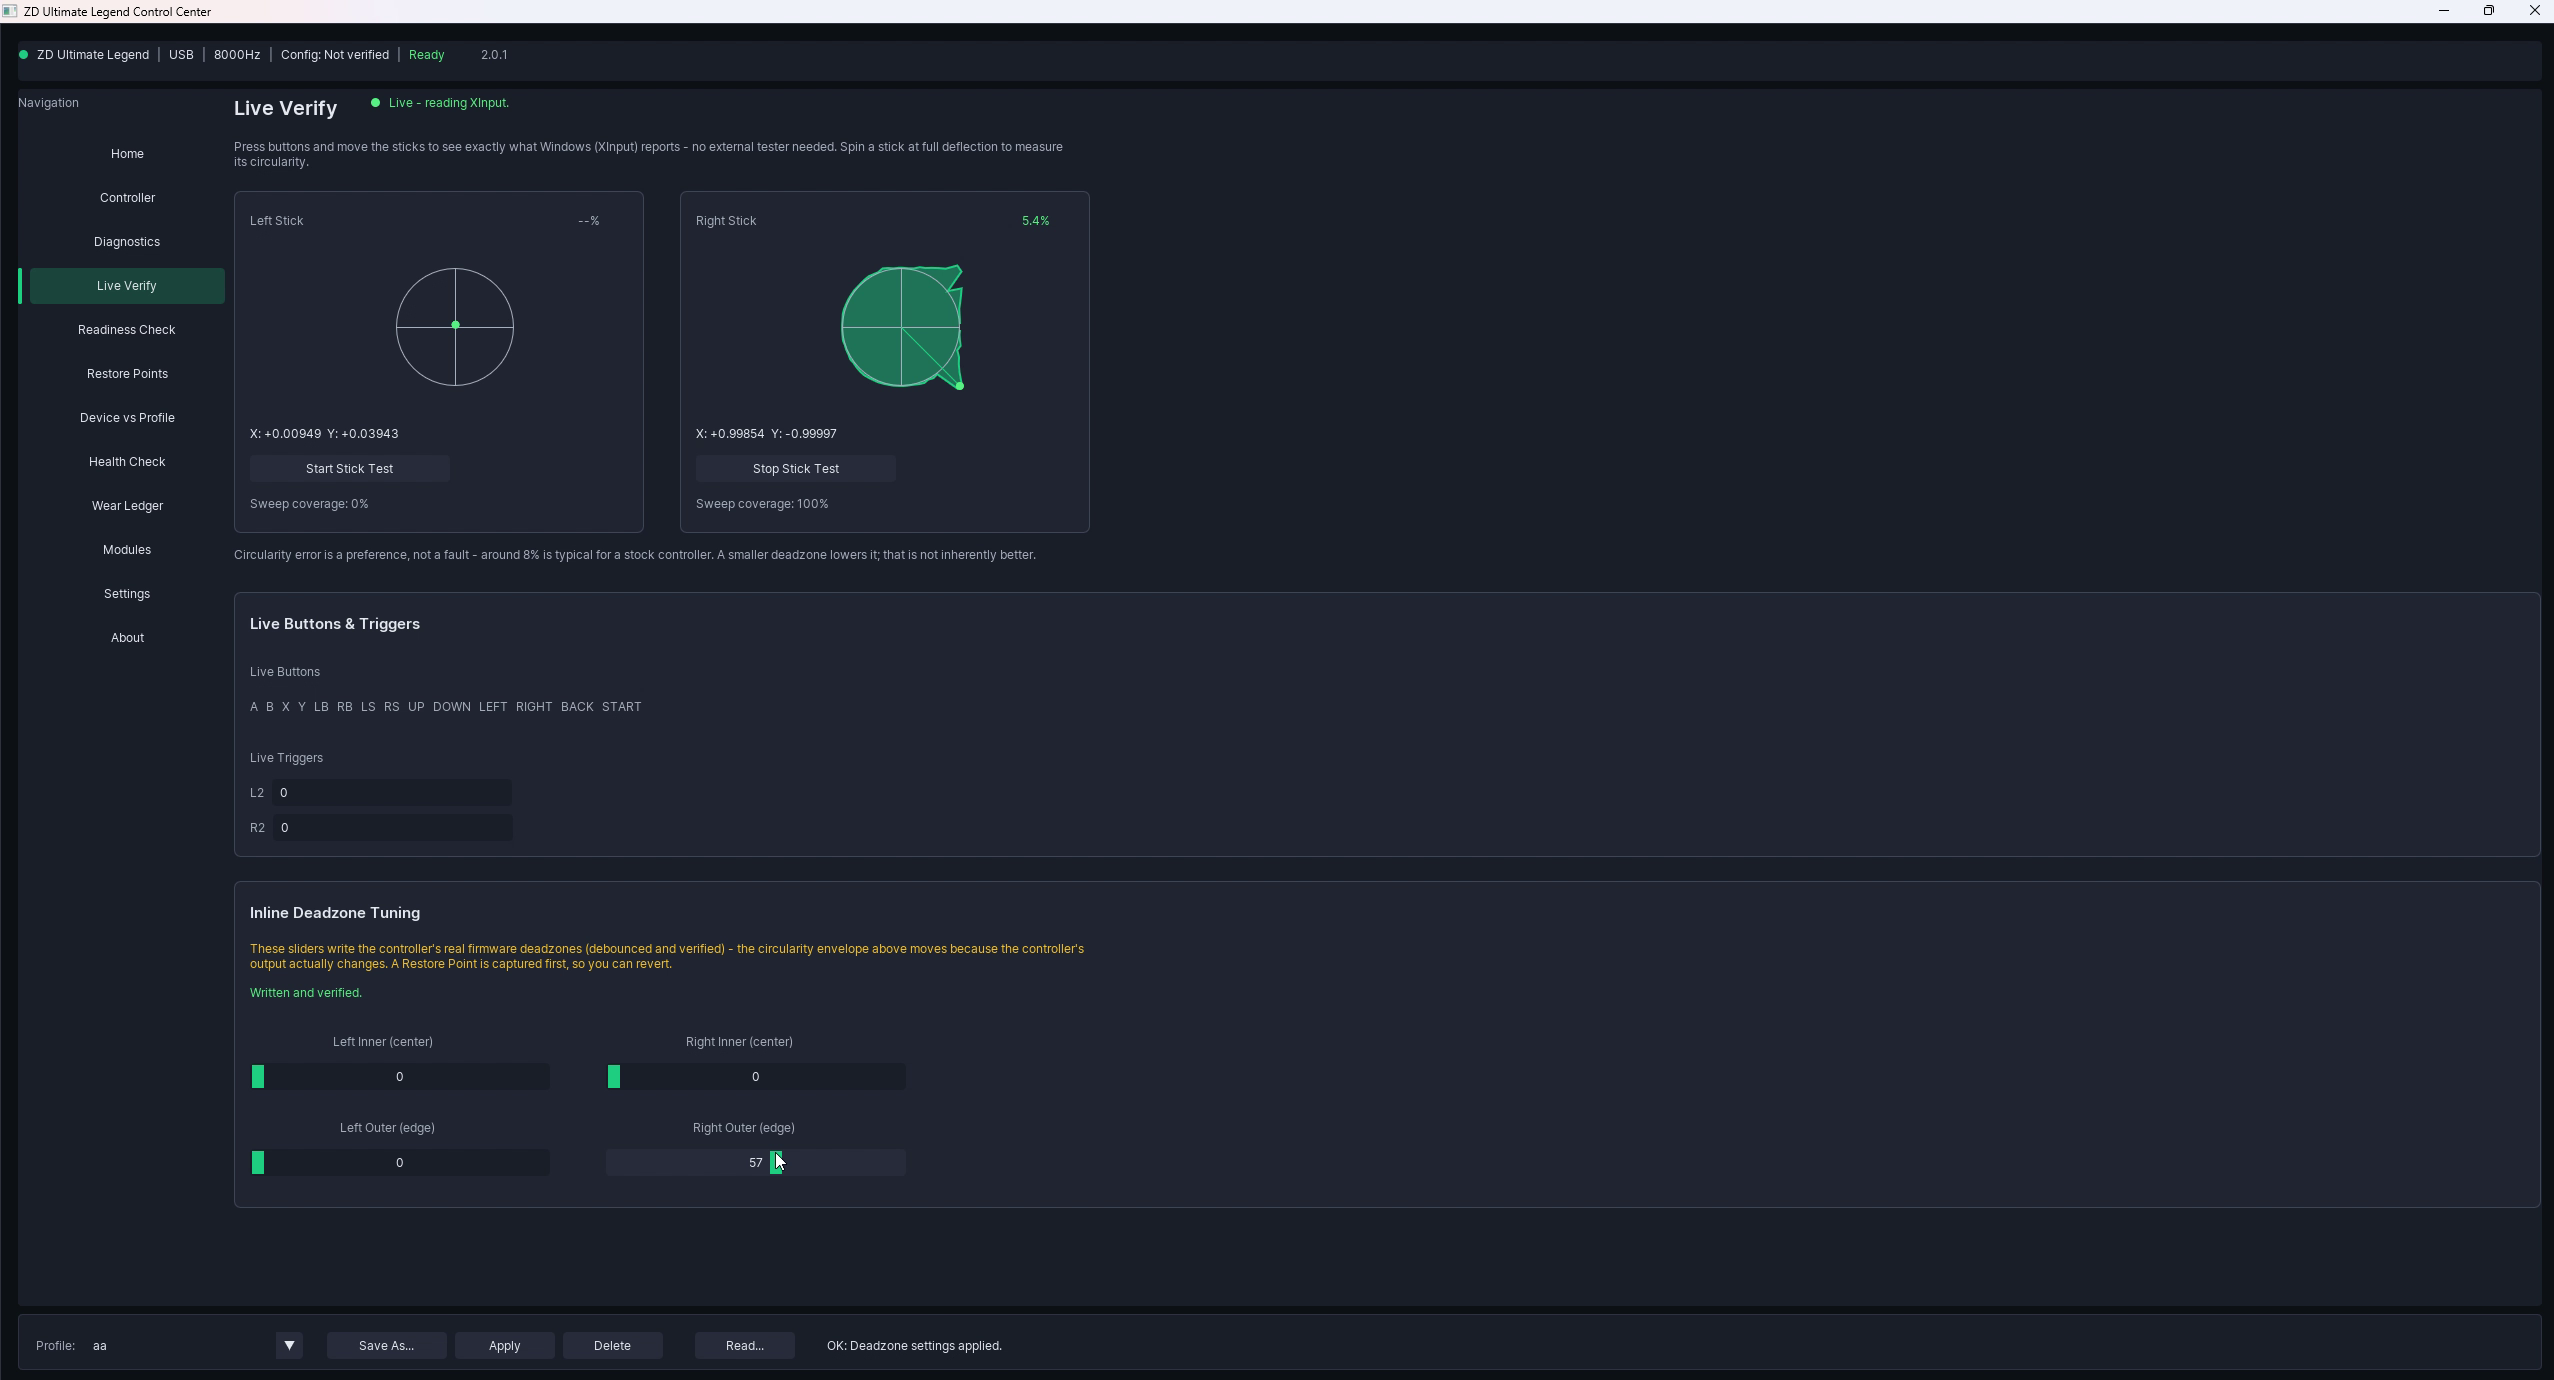
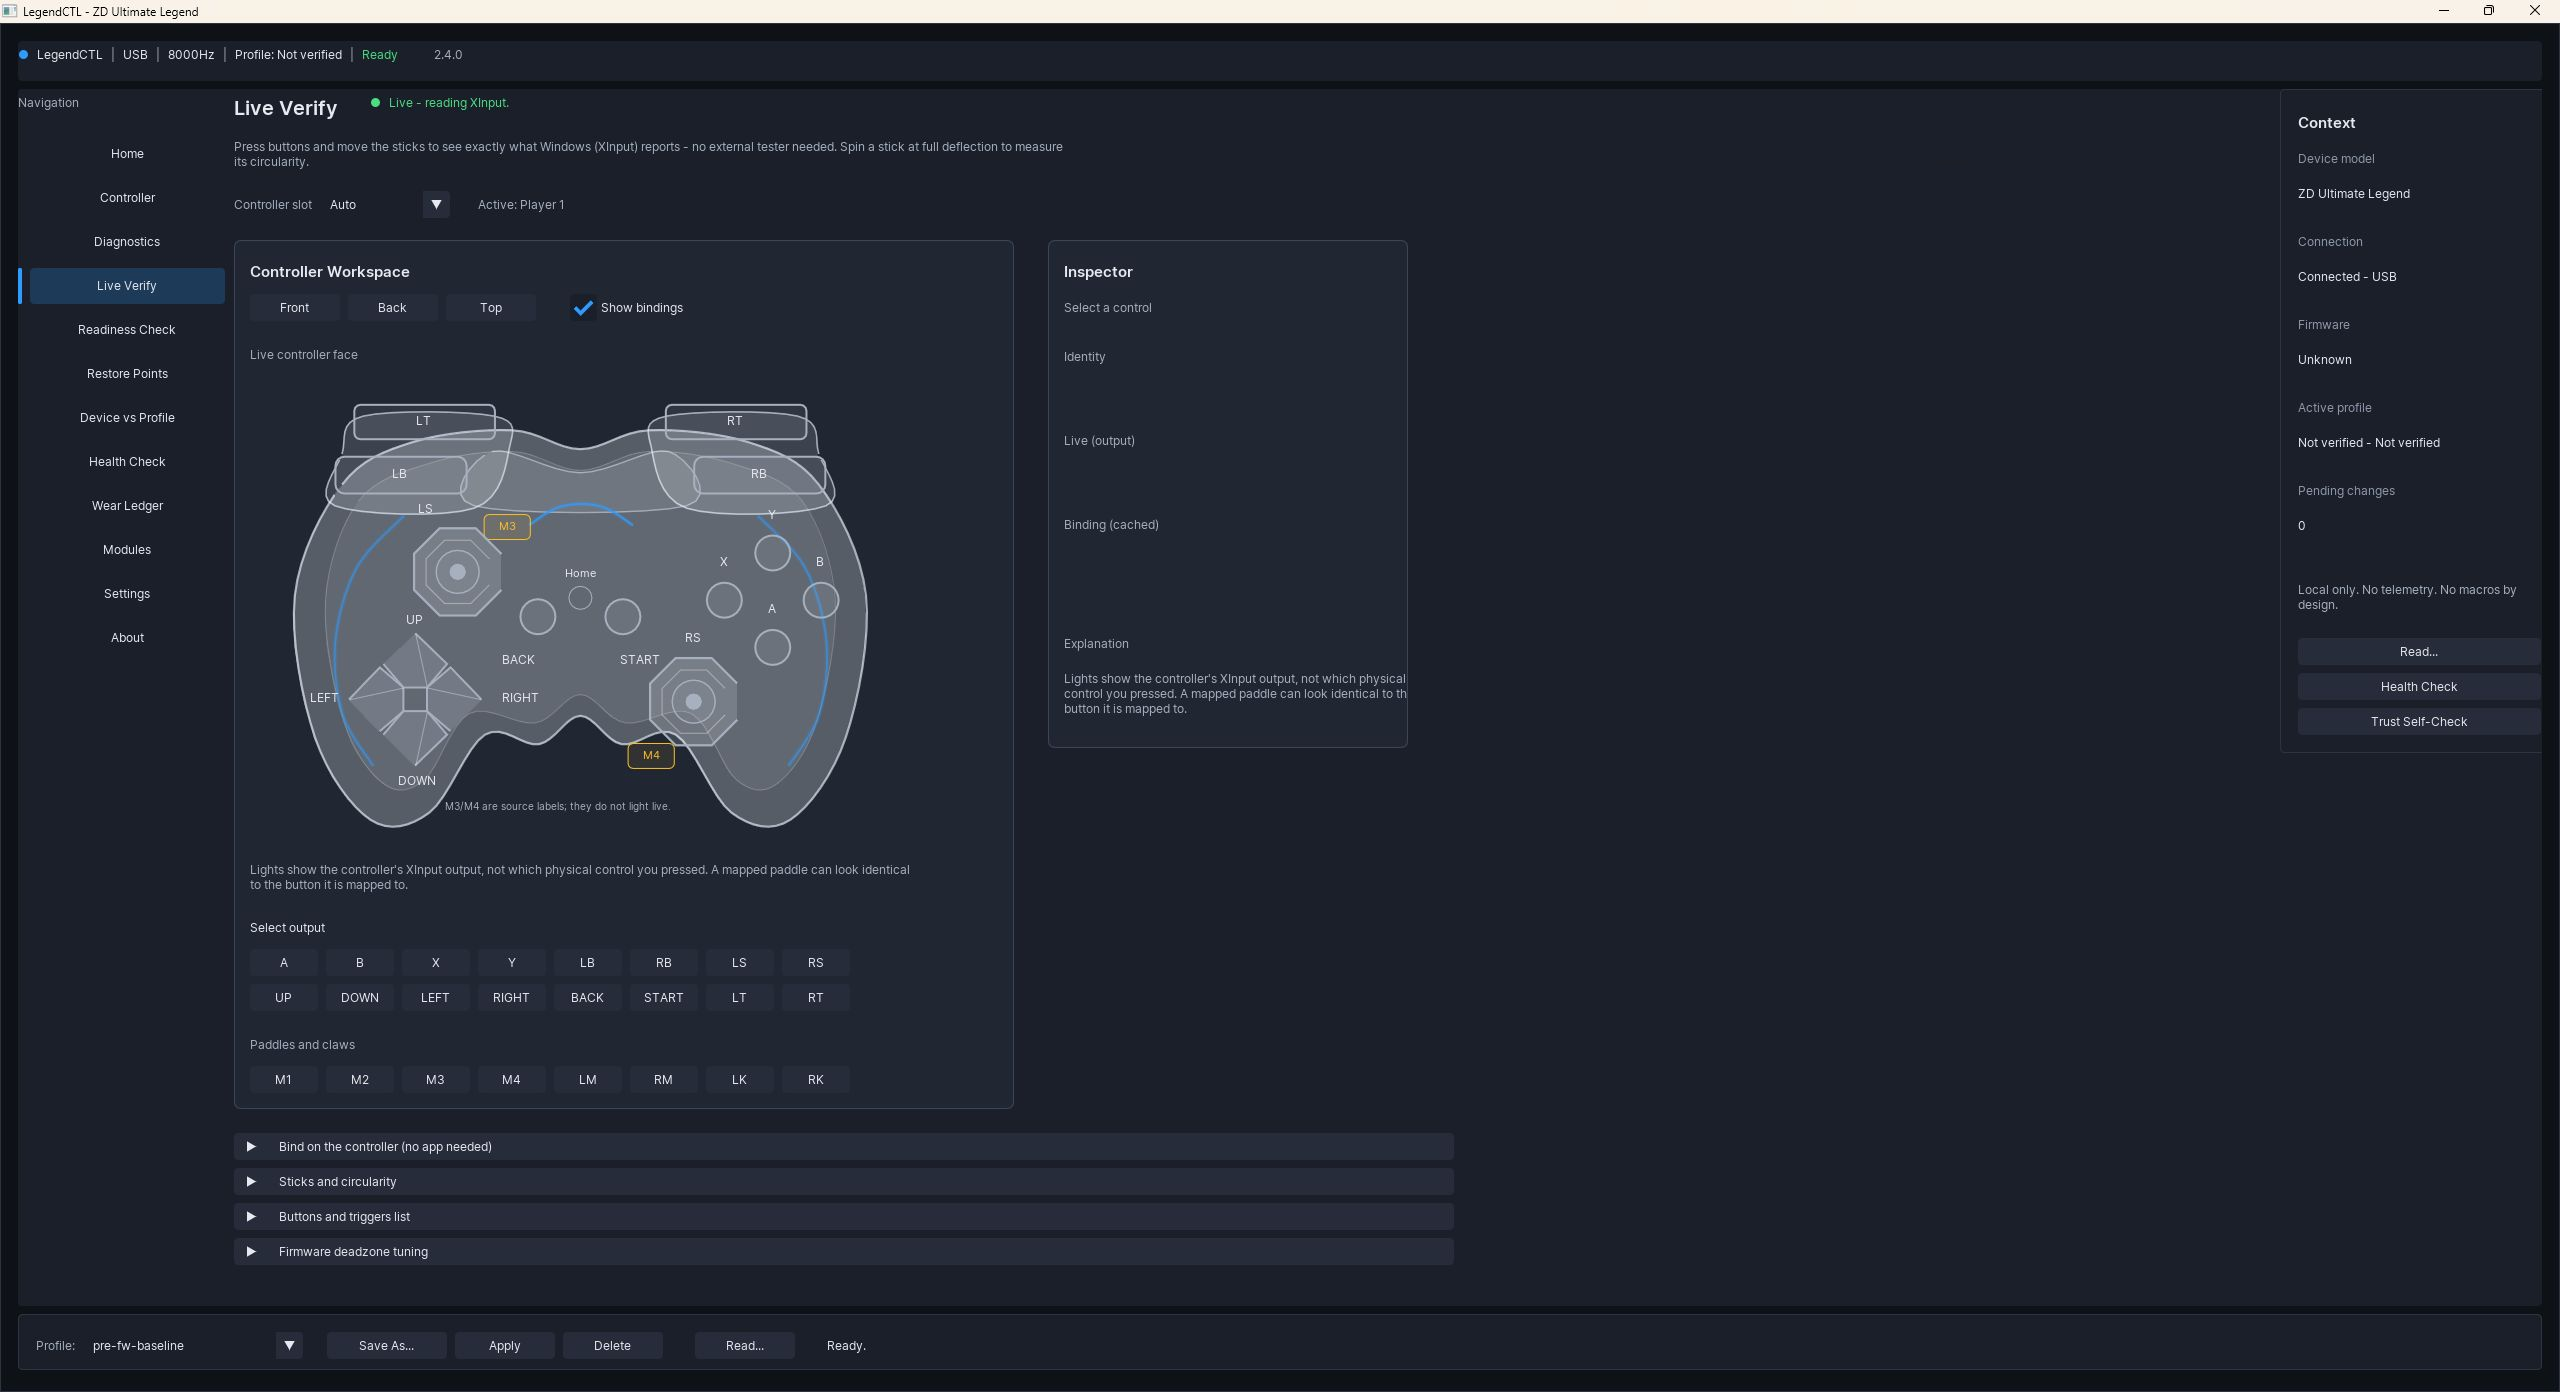
docs: refresh reviewer screenshots to v2.4.0 (replace stale 2.0.1 captures)
The three reviewer-kit inline screenshots were from an old build (2.0.1):
old Home layout, old Controller tab order, no context rail — they
misrepresented the current app after the v2.4.0 layout overhaul (cold-outsider
review flagged this). Recaptured on the v2.4.0 build (commit 1d519e1) via
Computer Use, maximized so the adaptive context rail is visible:

- screenshot-overview.png       <- v2.4.0 Home (orientation card, Device &
                                   profile, trust front door, context rail)
- screenshot-sensitivity-curves.png <- v2.4.0 Controller/Sticks (Sticks-first
                                   tab order, deadzones, 8-point curves, rail)
- screenshot-live-verify-circularity.png <- v2.4.0 Live Verify Front (live
                                   XInput view, honesty note, rail)

REVIEWER-KIT caption for the Live Verify still retitled to 'live XInput view'
(the new still is a neutral live view, not an active sweep — the demo GIF above
it still shows a full circularity sweep). Gallery extras (dual-stick /
controller-settings / diagnostics) still 2.0.1; can refresh in a follow-up.

diff --git a/docs/REVIEWER-KIT.md b/docs/REVIEWER-KIT.md
@@ -104,7 +104,7 @@ LegendCTL's pitch is the inverse, and it's verifiable rather than asserted.
 
 - **Demo GIF** (in-repo): [docs/media/legendctl-liveverify-demo.gif](media/legendctl-liveverify-demo.gif)
 - **Screenshots:**
-  - Live Verify circularity sweep — ![Live Verify circularity](media/screenshot-live-verify-circularity.png)
+  - Live Verify — live XInput view (the demo GIF above shows a full circularity sweep) — ![Live Verify](media/screenshot-live-verify-circularity.png)
   - Sensitivity-curve editor — ![Sensitivity curves](media/screenshot-sensitivity-curves.png)
   - Overview / Home — ![Overview](media/screenshot-overview.png)
 - More screens (dual-stick Live Verify, controller settings, diagnostics) are in
